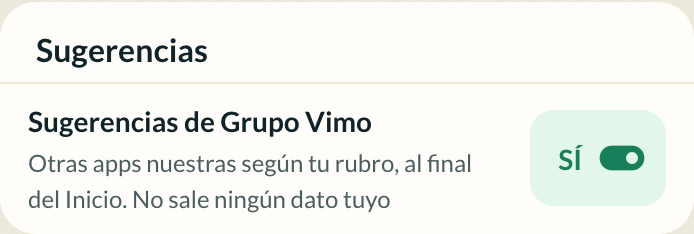
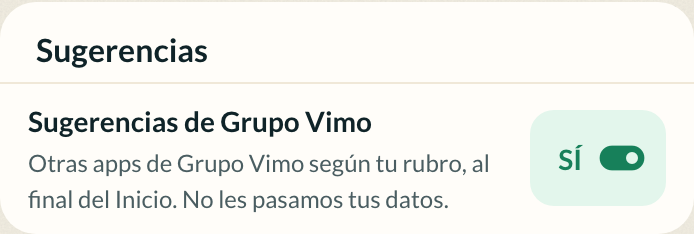
lámina: la web a 375 px tal como quedó (final del Inicio, menú de la cruz y Configuración con el chip SÍ/NO)
La lámina sólo dibujaba las apps y el banner de escritorio. Ahora suma capturas reales
de la web a 375 px y aclara que la web es sólo clara y que su interruptor es el chip
de todos los ajustes del panel. sugerencia.png regenerada para que Nahuel la apruebe.

Claude-Session: https://claude.ai/code/session_019W2t1BbE2dVYidNozKPcir

Changed region(s): [[0.0303, 0.8077, 0.6657, 0.8974], [0.2118, 0.6581, 0.7262, 0.7479]]

diff --git a/docs/laminas/sugerencia.html b/docs/laminas/sugerencia.html
@@ -63,6 +63,9 @@
 	/* Escritorio */
 	.esc { --tarjeta: #fffdf9; --tinta: #0f2328; --sub: #4a5d61; --linea: #ece3d1; --menta-texto: #17805a; width: 820px; padding: 24px; border-radius: 18px; background: #faf6ee; }
 	.esc .sug .foto { width: 144px; }
+	h2.sub { margin: 40px 0 4px; font-size: 20px; font-weight: 900; letter-spacing: -0.01em; }
+	.cap { display: block; width: 375px; height: auto; border-radius: 28px; box-shadow: 0 0 0 1px #d9cfbb; }
+	.cap.cap-recorte { border-radius: 20px; }
 	.notas { margin-top: 32px; max-width: 900px; font-size: 14px; line-height: 1.5; color: #33474b; }
 	.notas b { color: #0f2328; }
 	.notas ul { padding-left: 18px; }
@@ -123,7 +126,7 @@
 		</div>
 
 		<div class="marco">
-			<p>Más › Configuración · claro y oscuro</p>
+			<p>iPhone y Android · Más › Configuración</p>
 			<div class="tel" style="gap:8px">
 				<span class="bloque-rot">SUGERENCIAS</span>
 				<div class="renglon"><span class="t"><b>Sugerencias de Grupo Vimo</b></span><span class="switch"></span></div>
@@ -149,6 +152,24 @@
 					<div class="cruz"><span class="ico">close</span></div>
 				</div>
 			</div>
+		</div>
+	</div>
+
+	<h2 class="sub">Web a 375 px · tal como quedó construida</h2>
+	<p class="bajada">Capturas reales del panel web (la web es sólo clara: su paleta oscura va en una tanda aparte, para todo el panel). Misma tarjeta, mismo menú y el mismo texto de ayuda que en las apps; en la web el interruptor es el chip «SÍ / NO» de todos los ajustes del panel, no el switch de iOS.</p>
+	<div class="fila">
+		<div class="marco">
+			<p>Web · el final del Inicio</p>
+			<img class="cap" src="capturas/web-375-final-inicio.png" alt="El final del Inicio web a 375 px, con la sugerencia debajo de «Huecos de hoy» y encima de la barra" />
+		</div>
+		<div class="marco">
+			<p>Web · la cruz abre el menú hacia arriba</p>
+			<img class="cap" src="capturas/web-375-menu.png" alt="El menú de la cruz en la web: «Ocultar por 30 días» y «Ya la uso / No me interesa»" />
+		</div>
+		<div class="marco">
+			<p>Web · Configuración › Sugerencias</p>
+			<img class="cap cap-recorte" src="capturas/web-375-ajustes.png" alt="El bloque Sugerencias de la Configuración web con el chip «SÍ»" />
+			<p class="pie" style="margin-top:12px; text-transform:none; letter-spacing:0; font-weight:400">El chip dice «SÍ» o «NO» y se guarda con «Guardar sugerencias», como los demás bloques de la Configuración web.</p>
 		</div>
 	</div>
 
